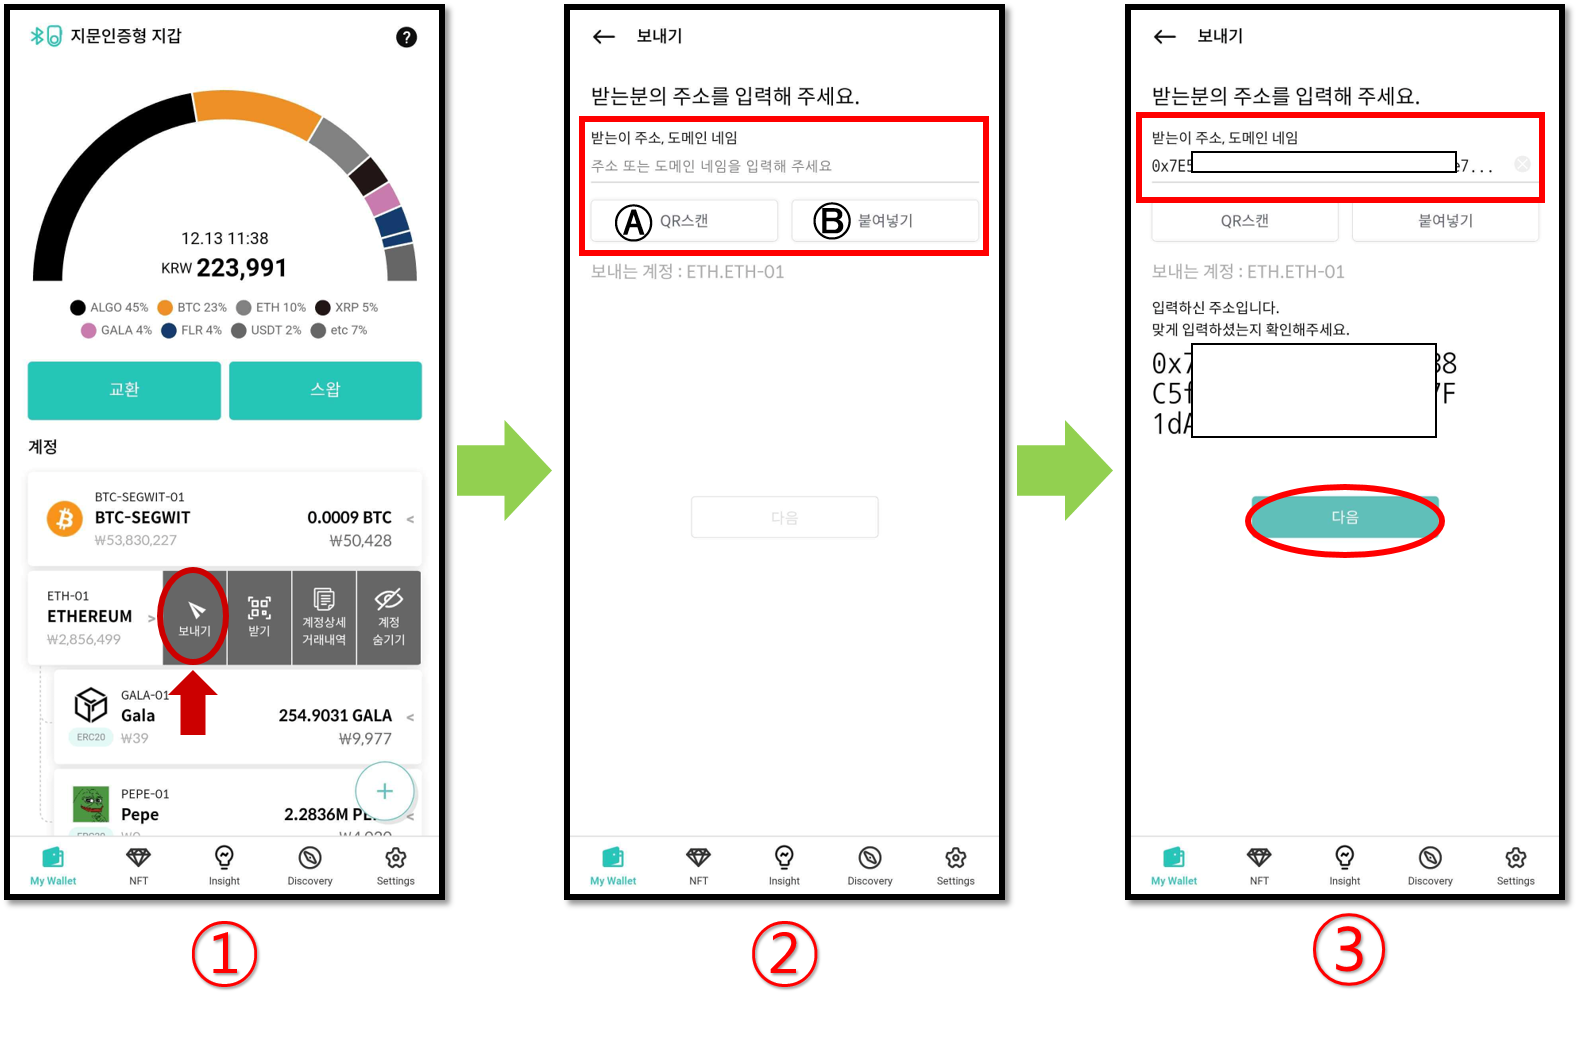
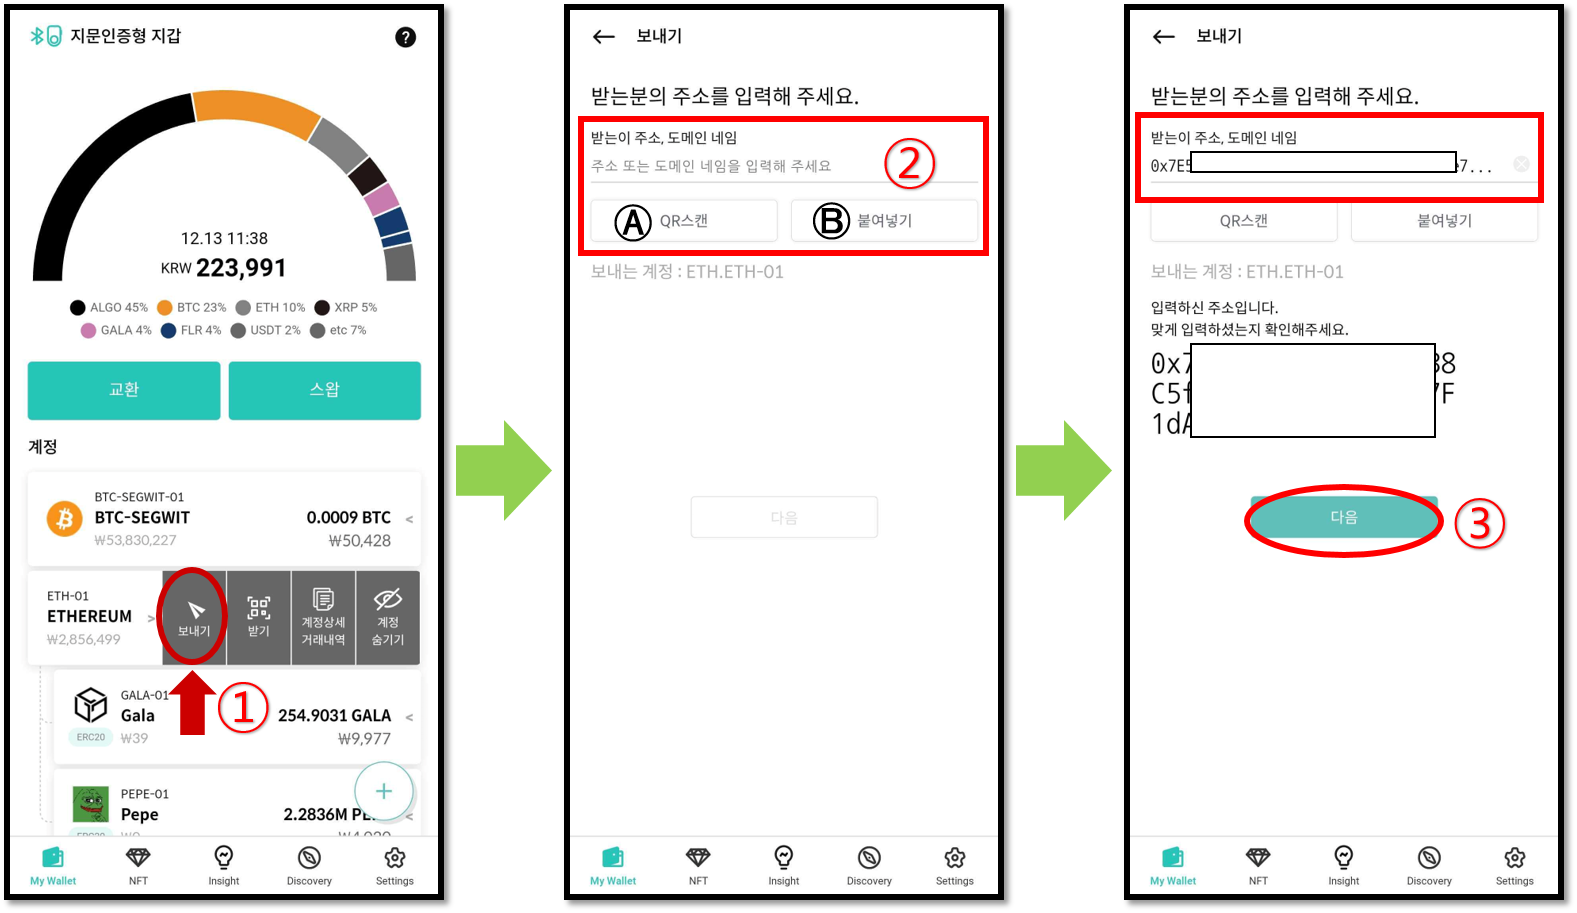
GITBOOK-587: change request with no subject merged in GitBook

diff --git a/coin-send-receive/send/mode_biometric.md b/coin-send-receive/send/mode_biometric.md
@@ -30,15 +30,14 @@
 
 </div>
 
-1\) 보내려는 암호화폐 수량을 입력합니다.
+1\) 보내려는 암호화폐 코인 수량을 입력합니다.  또는 현지 통화 금액으로 입력할 수 있습니다.
 
-**Ⓐ** 코인 수량은 현지 통화 금액으로 입력할 수 있습니다.\
-**Ⓑ** 네트워크 수수료를 설정합니다. (매우느림, 보통, 빠름)\
+2\) 네트워크 수수료를 설정합니다. (매우느림, 보통, 빠름)\
 "빠름"으로 설정하고 더 많은 수수료를 지불하면 거래 체결 속도를 높일 수 있습니다.
 
-보내려는 금액과 수수료를 설정하였으면 "**다음**" 버튼을 눌러줍니다.&#x20;
+3\) 보내려는 금액과 수수료를 설정하였으면 "**다음**" 버튼을 눌러줍니다.&#x20;
 
-2\) 화면에 표시된 거래 내용이 올바른지 확인하고 "**보내기**" 버튼을 눌러 지갑에 서명을 요청합니다.
+4\) 화면에 표시된 거래 내용이 올바른지 확인하고 "**보내기**" 버튼을 눌러 지갑에 서명을 요청합니다.
 
 ### 지문인증형 콜드월렛에서 최종 승인
 
@@ -48,8 +47,7 @@
 
 </div>
 
-1\)  지문인증형 콜드월렛 화면에표시되는 이체 정보를 한번 더 확인합니다. 정보가 올바른 경우 "**OK**" 버튼\
-(CONFIRM) 을 누릅니다.
+1\)  지문인증형 콜드월렛 화면에 표시되는 이체 정보를 한번 더 확인합니다. 정보가 올바른 경우 "**OK**" 버튼 (CONFIRM) 을 누릅니다.
 
 2\) 이체 거래의 최종 승인을 위해 사용자의 지문을 입력합니다.\
 지문을 등록하지 않은 경우 PIN 번호를 입력하여 최종 승인합니다.  &#x20;
